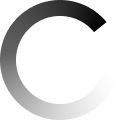
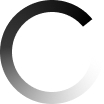
refactor: 로딩 스피너 크기 조절

diff --git a/src/components/LoadingSpinner/LoadingSpinner.styles.ts b/src/components/LoadingSpinner/LoadingSpinner.styles.ts
@@ -11,7 +11,7 @@ const spinAnimation = keyframes`
 `;
 
 export const SectionWrapper = styled.section`
-  margin-top: 180px;
+  margin-top: 184px;
   display: flex;
   flex-direction: column;
   justify-content: center;
